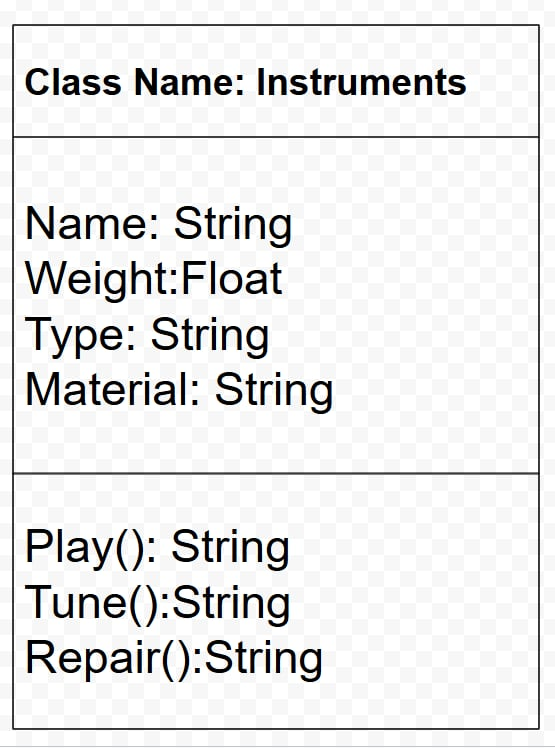
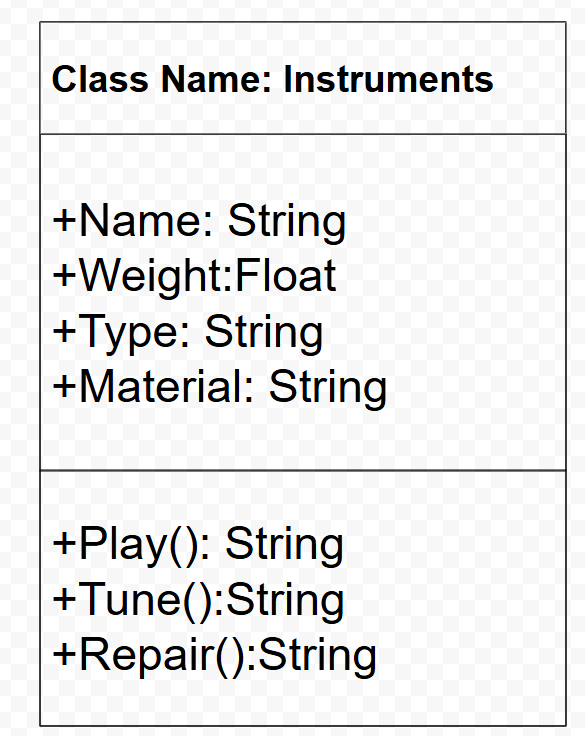
updated class diagram

Changed region(s): [[0.0, 0.0312, 0.9802, 1.0]]

diff --git a/classAttributesMethods.md b/classAttributesMethods.md
@@ -5,4 +5,26 @@ Previous Activity:
 [Link to original work](classObjecctUML.md)
 
 ## Design Revision
-No major changes were needed from my original design.
+I turned attribute "Weight" into "istuned" then turned it pribate.
+
+## Visibility Decisions
+| Attribute | Data Type | Visibility | Reason |
+|---|---|---|---|
+|Material |String |Public | |
+|Type |String |Public | |
+|isTuned |Boolean |Ptivate | |
+|Name |String |Public | |
+## Updated UML Class Diagram
+![Class Diagram](images/classDiagramSG5.png)
+## Python Implementation
+
+[View Python Source](classImplementation.py)
+## Test Run
+![Test Run](images/classTestRun.png)
+## Object Diagram
+![Object Diagram](images/objectDiagram.png)
+## Analysis
+### Why did you make your chosen attribute private?
+### Which method changes the state of your object?
+### How did your two objects demonstrate that instances are independent?
+### What is the difference between your class diagram and your object diagram?
